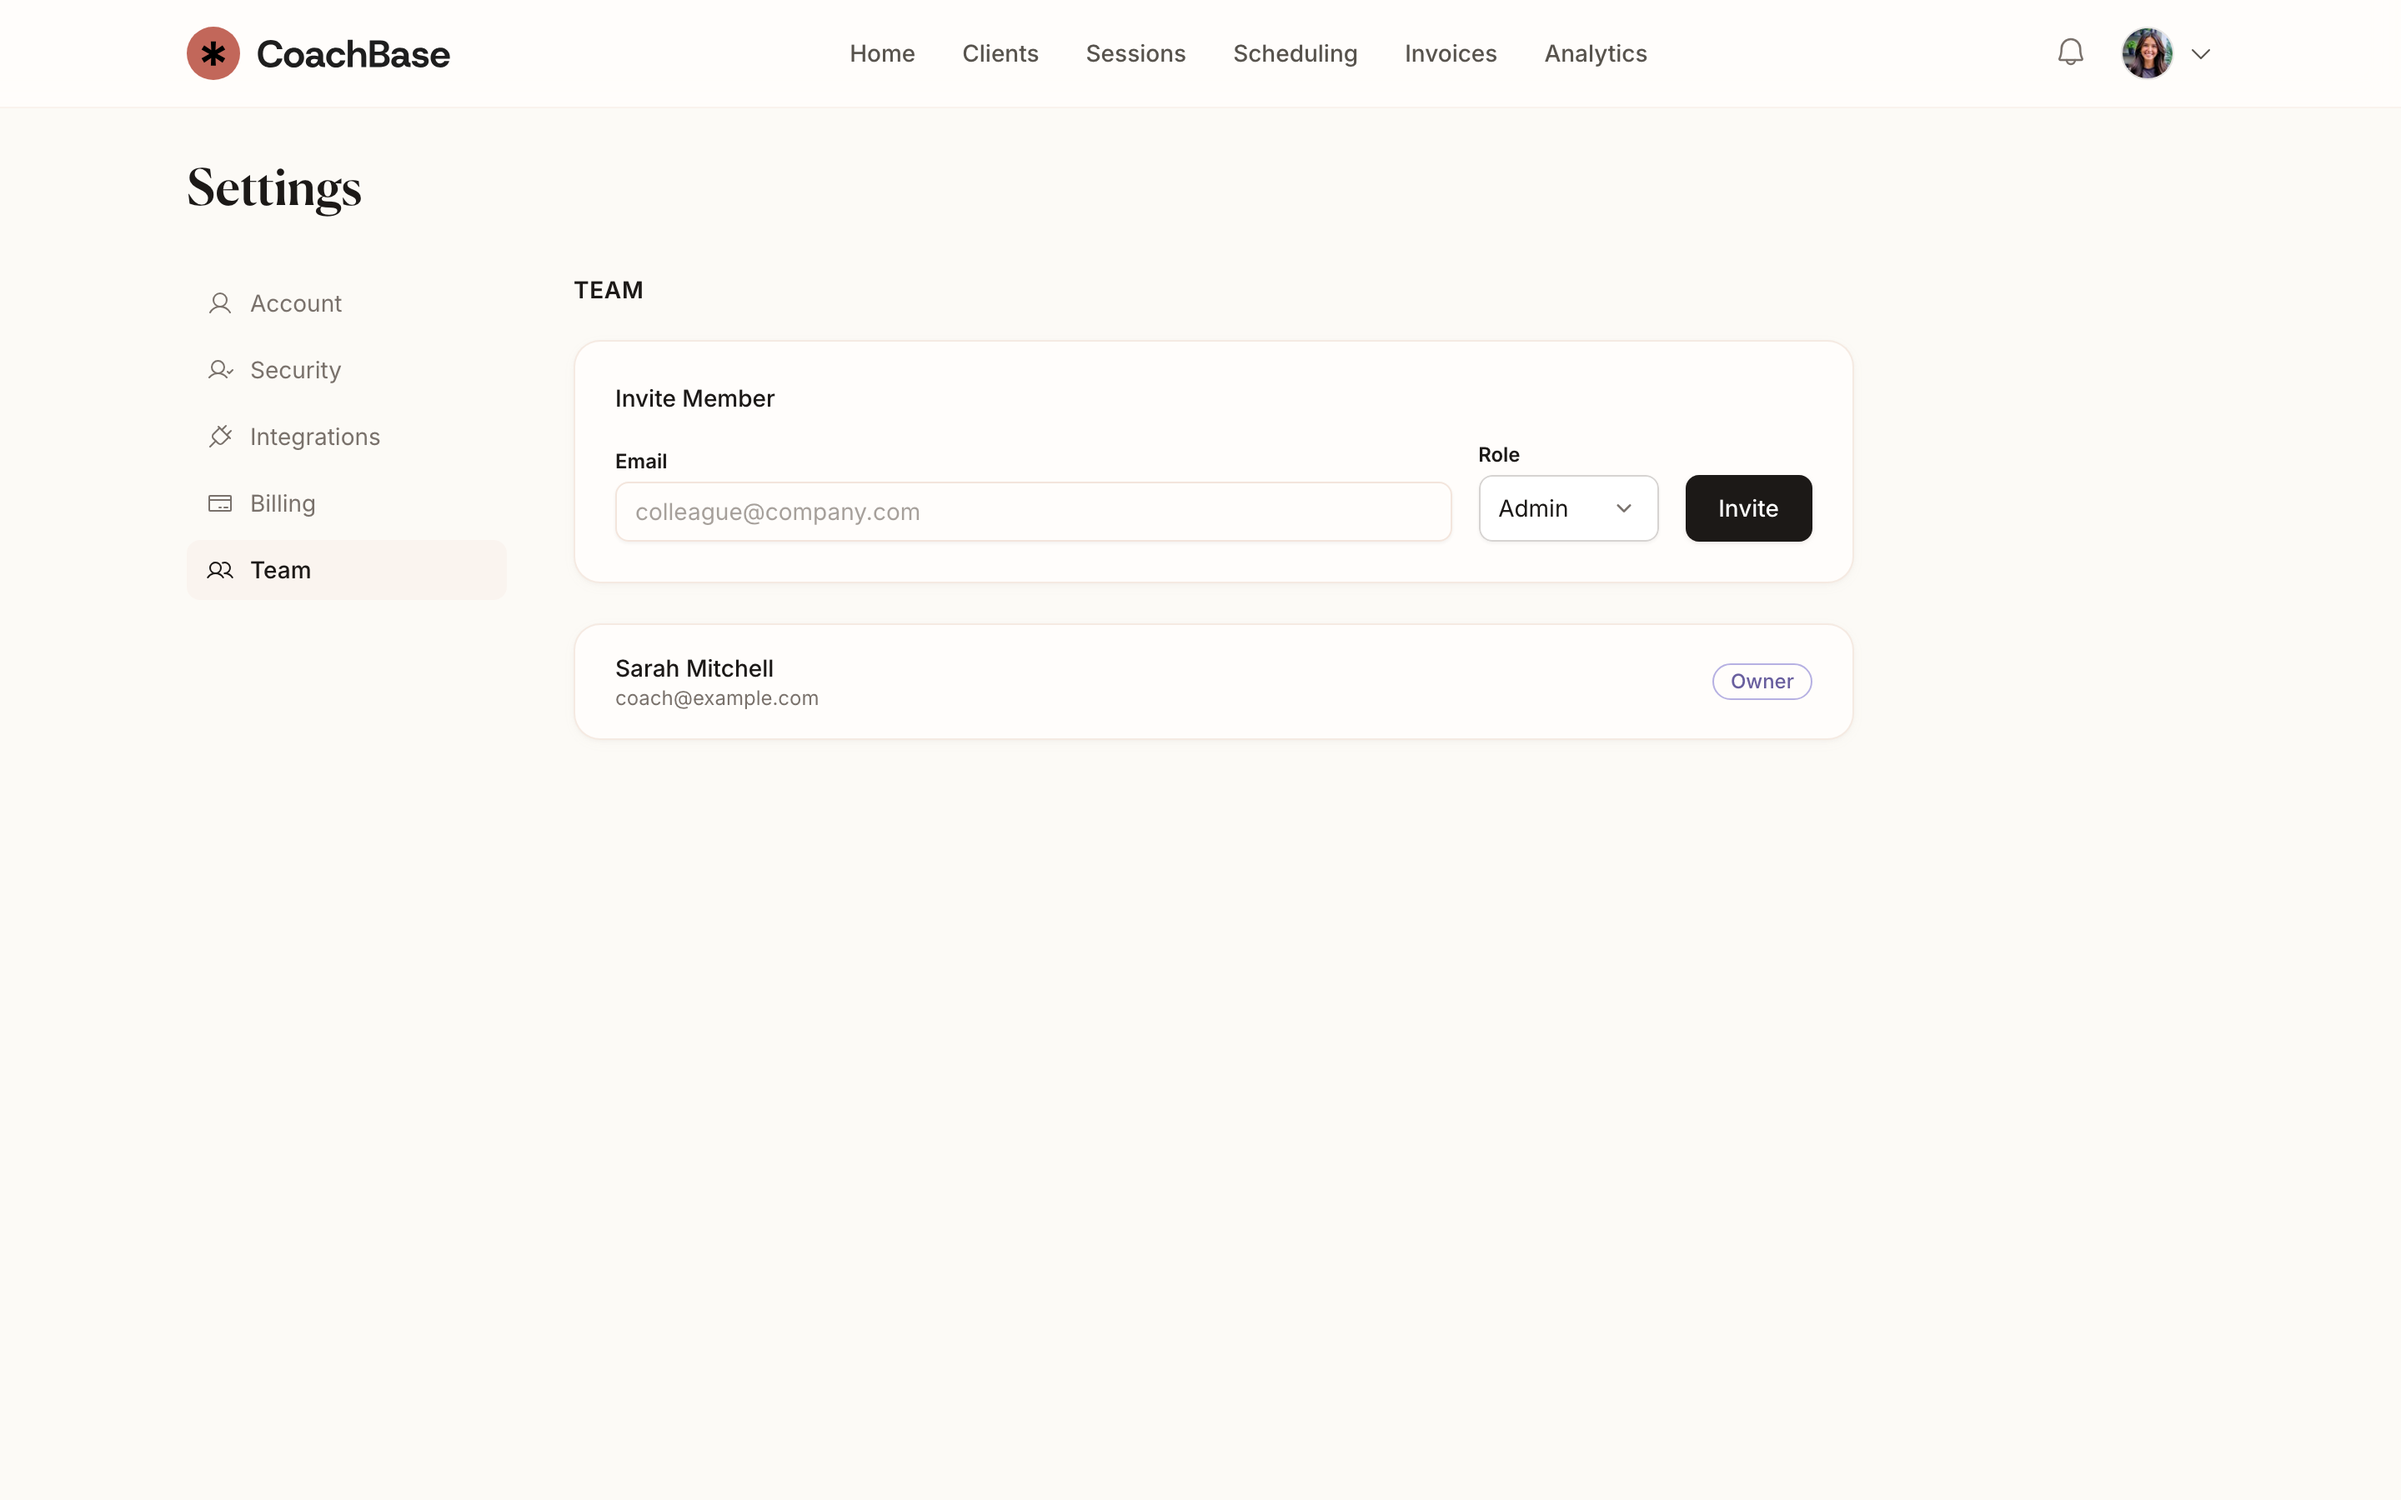
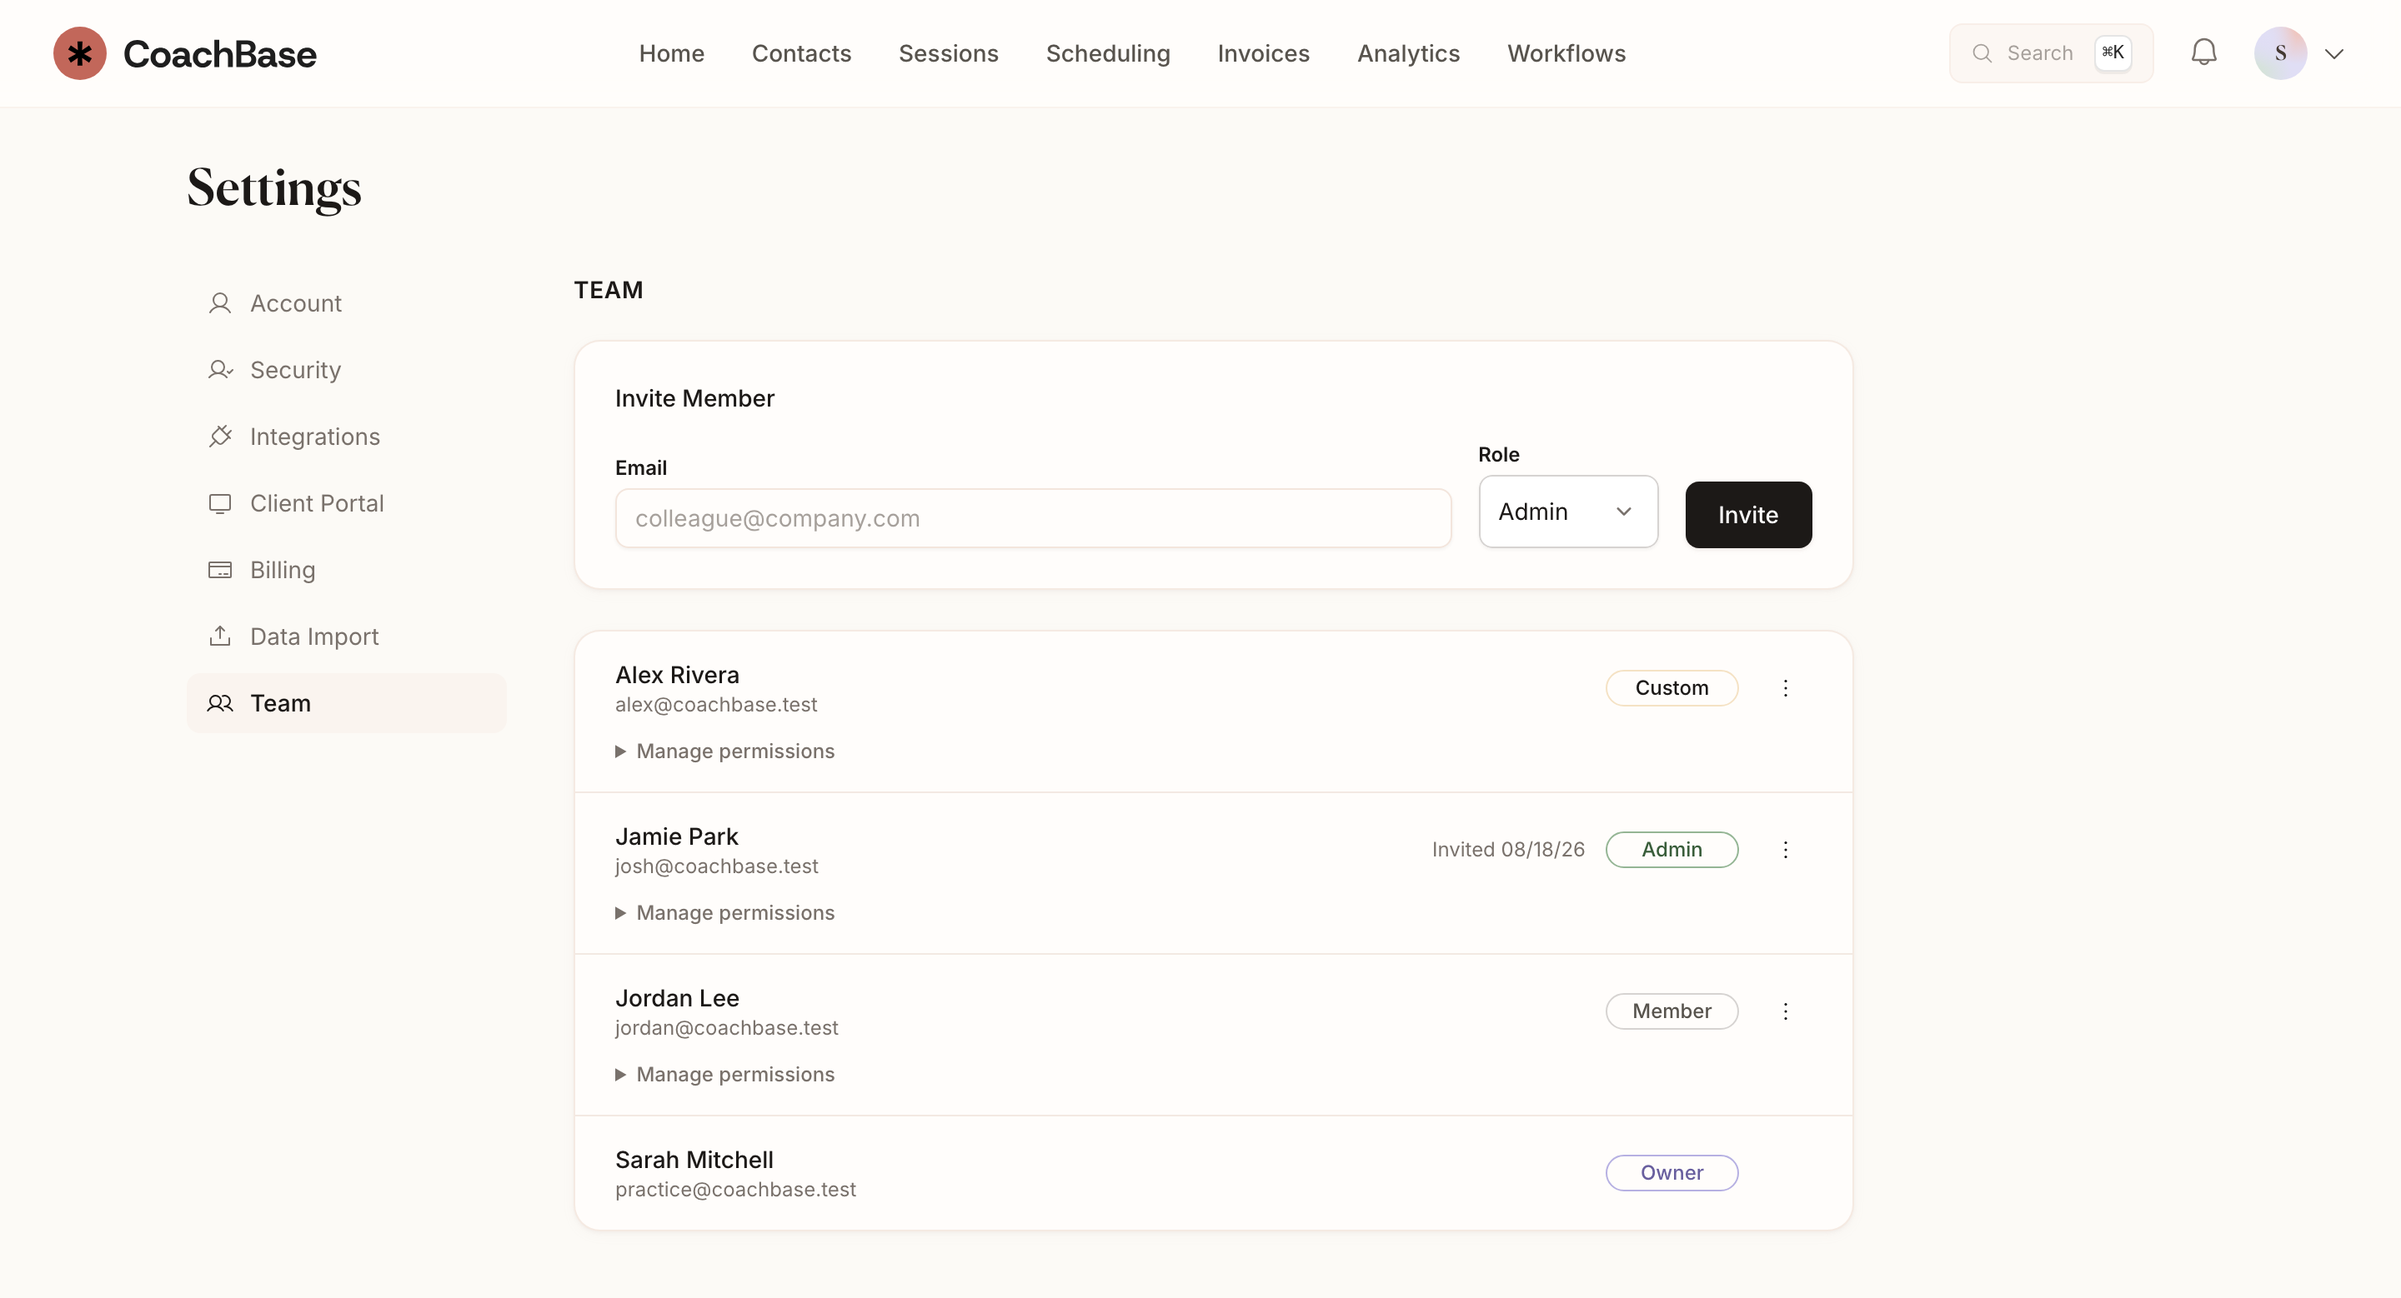
docs: add August 15-18 product updates and refresh team screenshot
Backfills the changelog from the last entry (Aug 14) through today:
Aug 18 team-invite reliability + member-list redesign + toasts,
Aug 17 one-click team-invite join link, and the Aug 15 client portal
overhaul. Updates the Team page for the actions menu, Custom badge, and
invite date, and recaptures 06-team.png against the new UI.

diff --git a/src/app/docs/changelog/page.md b/src/app/docs/changelog/page.md
@@ -7,6 +7,23 @@ We ship improvements to CoachBase regularly. Here's what's new.
 
 ---
 
+## August 18, 2026
+
+- Inviting a coach to your [Practice team](/docs/features/settings/team) now works reliably, including on internal and staff-managed accounts where the invite could previously appear to do nothing.
+- The [team member list](/docs/features/settings/team) is cleaner: permissions are simple on and off toggles, each member shows a single role badge, invited members show the date they were invited, and Resend and Remove now live in a compact actions menu.
+- Confirmation and error messages, like "Invitation sent," now reliably appear after an action reloads the page, instead of occasionally being dropped.
+
+## August 17, 2026
+
+- Team invitations now send a one-click join link that adds the coach directly to your [practice team](/docs/features/settings/team), instead of occasionally failing or dropping them into a separate empty account.
+
+## August 15, 2026
+
+- The [client portal](/docs/features/client-portal/overview) now matches the coach app's look and feel, with the same navigation, cards, and page headers, plus a Light, Dark, and System theme switch that's remembered for each client.
+- The [portal dashboard](/docs/features/client-portal/dashboard) keeps Goals and Files together with Messages alongside them. Completing a task or opening a shared file now confirms with a toast, and files you haven't opened show a **New** badge until viewed.
+- Portal visibility settings are shorter and easier to scan, with per-contact controls and a one-click reset back to your account defaults.
+- Coaching engagements now live in their own tab on the [contact page](/docs/features/clients/client-details), alongside Notes, Goals, and Tasks, and the tab no longer renders blank in some cases.
+
 ## August 14, 2026
 
 - [Contact profiles](/docs/features/clients/client-details) now use the modern detail layout by default, include custom fields and blank values, and let you copy email addresses and phone numbers with one click. Your saved layout preferences stay unchanged.

diff --git a/src/app/docs/features/settings/team/page.md b/src/app/docs/features/settings/team/page.md
@@ -18,7 +18,7 @@ Team management is available on the Practice plan. On lower tiers, this tab show
 3. Select a role: **Admin** or **Member**
 4. Click **Invite**
 
-The invitee receives an email with a link to join your account. Until they accept, their status shows as **Invited**. You can click **Resend** to send the invitation again.
+The invitee receives an email with a link to join your account. Until they accept, their row shows **Invited** along with the date you sent the invitation. To send it again, open the actions menu (**⋯**) at the end of their row and choose **Resend invite**.
 
 ## Roles
 
@@ -30,11 +30,11 @@ CoachBase uses three roles with different permission levels:
 
 ## Managing permissions
 
-Account owners can customize what each non-owner team member can access. Click **Manage permissions** under a member's entry to toggle individual permissions on or off, then click **Save Permissions**.
+Account owners can customize what each non-owner team member can access. Click **Manage permissions** under a member's entry to switch individual permissions on or off, then click **Save Permissions**. Once a member's permissions differ from their role's defaults, their badge shows **Custom** instead of **Admin** or **Member**.
 
 ## Removing a team member
 
-Click **Remove** next to any non-owner member. A confirmation dialog asks you to confirm. Removing a member revokes their access to the account immediately.
+Open the actions menu (**⋯**) at the end of any non-owner member's row and choose **Remove**. A confirmation dialog asks you to confirm. Removing a member revokes their access to the account immediately.
 
 ## Frequently Asked Questions
 
